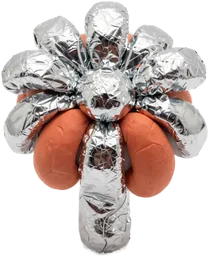
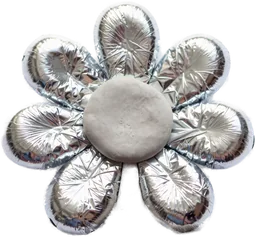
Tūī's Ten Tree: all-silver flower (every petal wrapped in foil)

diff --git a/scripts/tui-art.py b/scripts/tui-art.py
@@ -88,7 +88,8 @@ FLOWER = 'One big rounded kowhai flower cluster seen from the front, a soft bunc
 FLOWERS = {
     'bud': 'every petal still closed tight into one soft pale green bud, the whole bud and its stalk fresh spring green, fresh and alive',
     'bronze': f'the whole flower wrapped smoothly in shiny crinkled coppery bronze foil like a chocolate coin wrapper, {SHINE}, every part of it bronze',
-    'silver': f'the whole flower wrapped smoothly in shiny crinkled silver foil like a chrome mirror, {SHINE}, every part of it silver',
+    'silver': f'eight rounded petals around a round centre, each petal, the centre and the stalk wrapped smoothly in shiny crinkled '
+              f'silver foil like a chrome mirror, {SHINE}, the whole flower cool grey-white silver from top to bottom',
     'gold': f'the whole flower wrapped smoothly in shiny crinkled yellow gold foil, {SHINE}, every part of it gold, three tiny sparkles',
 }
 
